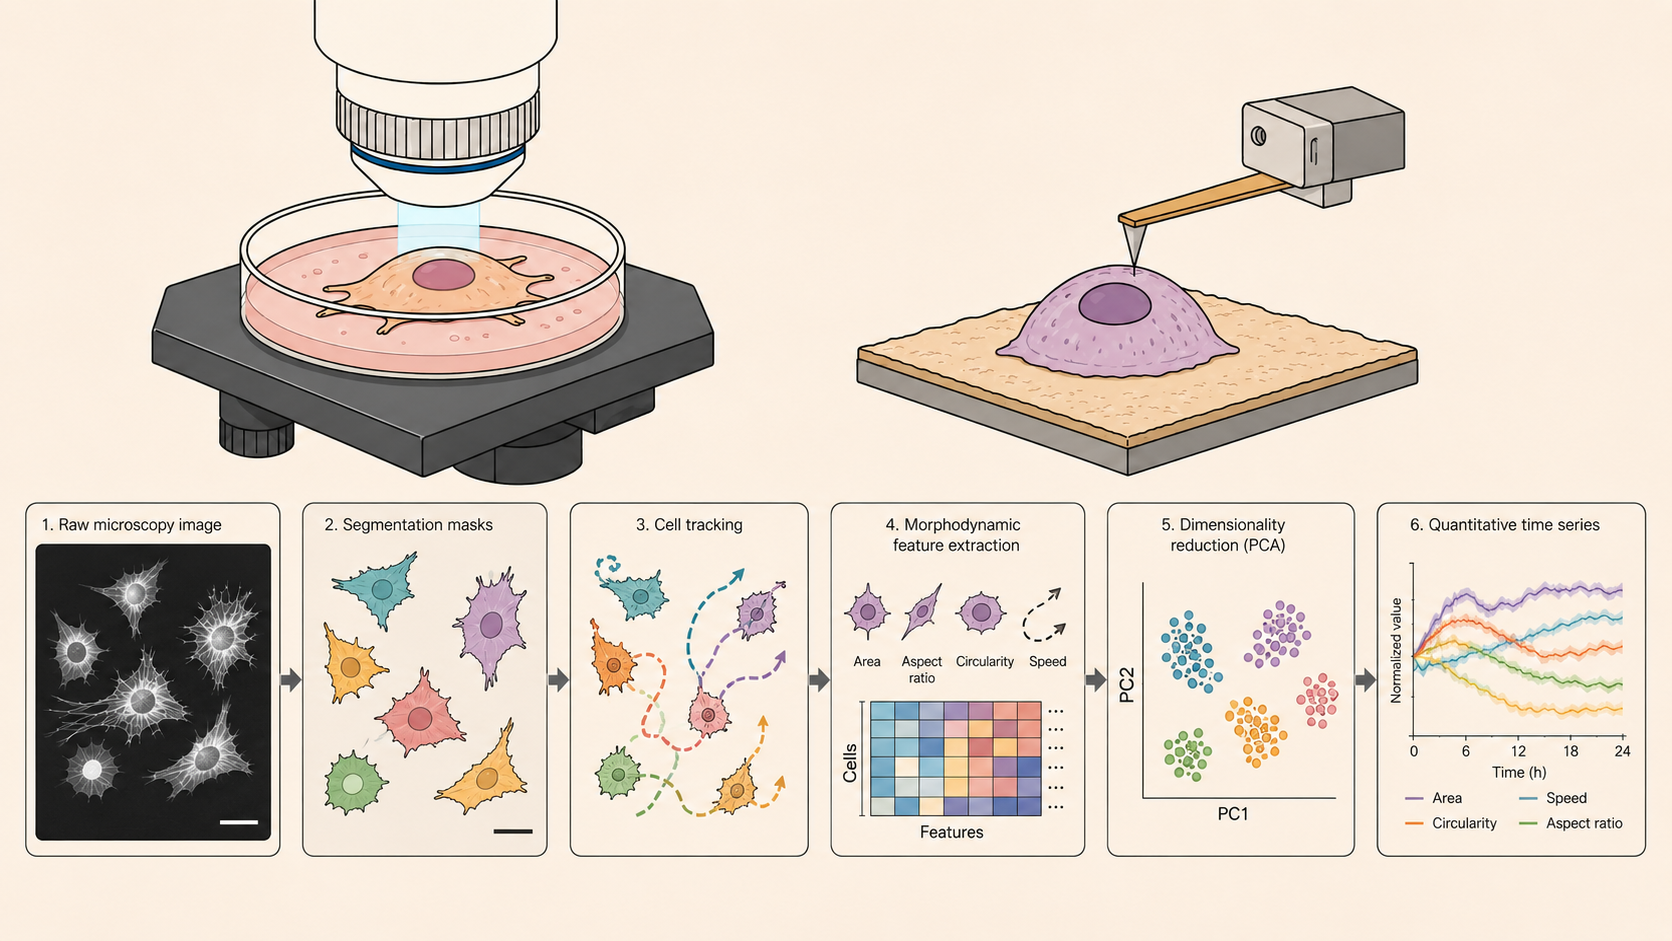
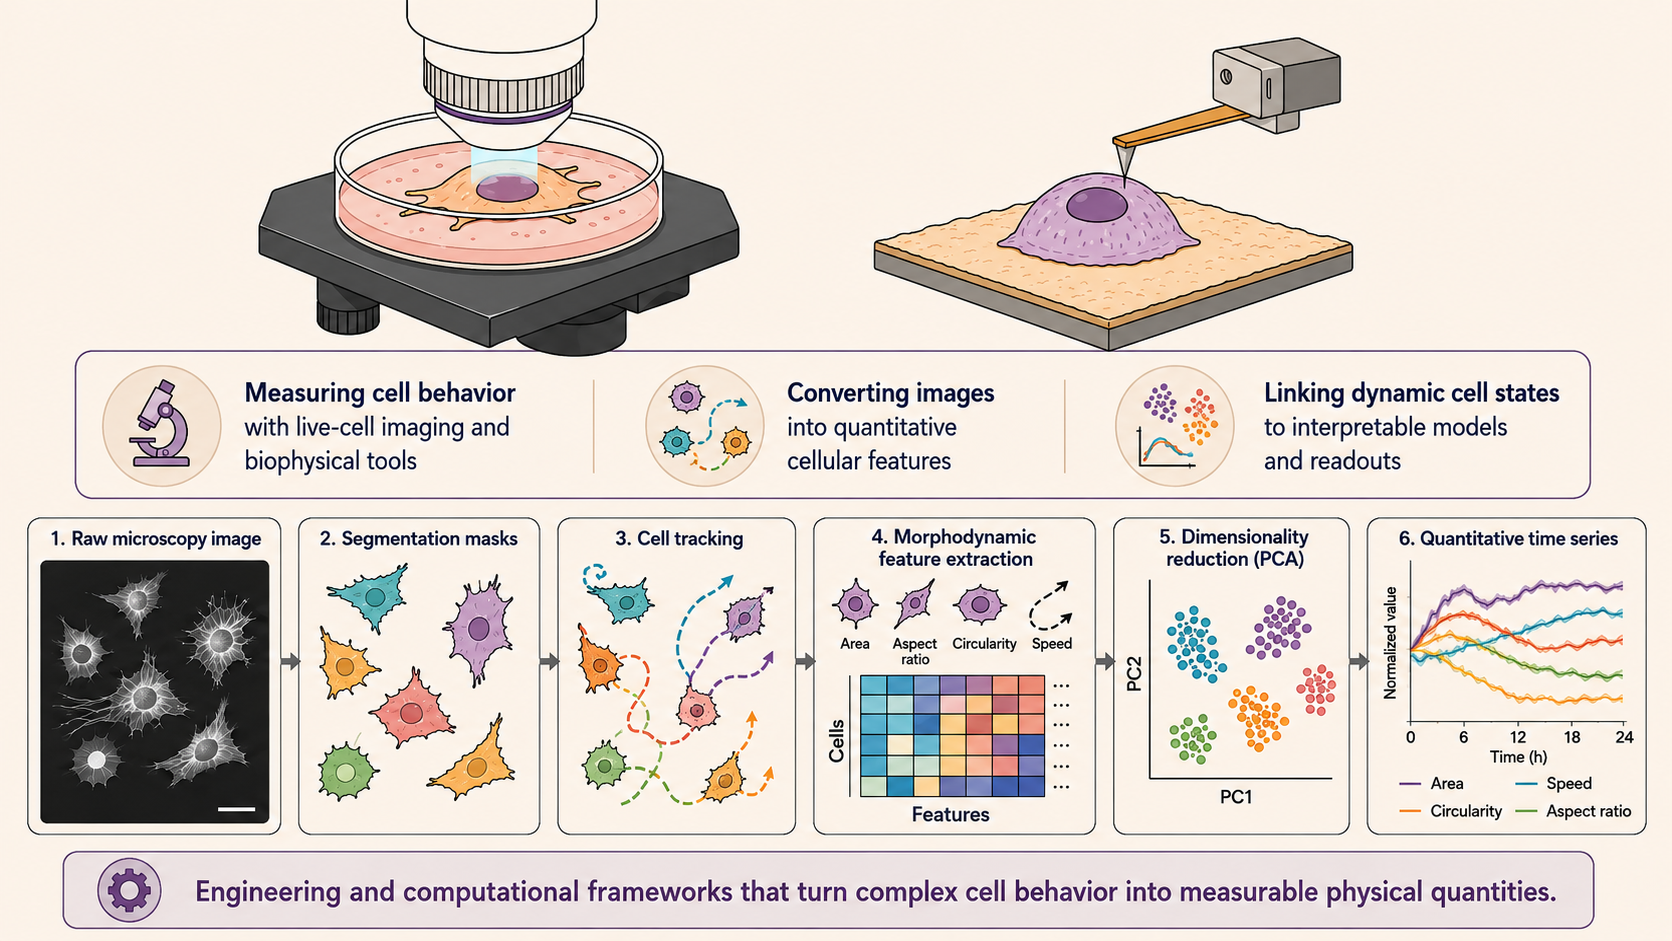
Refresh homepage research visuals
Update the two research pillar illustrations and link the lab name to the official Hawa Racine Thiam Lab website.

diff --git a/assets/styles.css b/assets/styles.css
@@ -53,6 +53,8 @@ h1 { font-family: Georgia, "Times New Roman", serif; font-weight: 500; font-size
 .intro-grid h2, .awards-band h2 { color: white; }
 h2 { font-family: Georgia, "Times New Roman", serif; font-size: clamp(38px, 5vw, 58px); line-height: 1.08; font-weight: 500; letter-spacing: -.035em; color: var(--navy-deep); margin-bottom: 24px; }
 .prose { font-size: 19px; color: #dbe4e9; }
+.prose a { color: #f0c36b; font-weight: 700; text-decoration-thickness: 1px; text-underline-offset: 3px; }
+.prose a:hover { color: white; }
 .prose p:last-child { margin-bottom: 0; }
 
 .section { padding-block: 100px; }

diff --git a/index.html b/index.html
@@ -59,7 +59,7 @@
           <h2>Connecting physical principles with cell biology</h2>
         </div>
         <div class="prose">
-          <p>I am a postdoctoral scholar in Hawa Racine Thiam's lab at Stanford University. My work integrates live-cell microscopy, experimental biophysics, quantitative image analysis, and physical modeling to uncover how cells generate, transmit, and respond to mechanical forces.</p>
+          <p>I am a postdoctoral scholar in <a href="https://hrthiamlab.stanford.edu/" target="_blank" rel="noopener noreferrer">Hawa Racine Thiam's lab</a> at Stanford University. My work integrates live-cell microscopy, experimental biophysics, quantitative image analysis, and physical modeling to uncover how cells generate, transmit, and respond to mechanical forces.</p>
           <p>Originally trained as a mechanical engineer, I approach cells and nuclei as dynamic mechanical systems. I view cellular morphology and motility, together with nuclear architecture and mechanics, as emergent biophysical properties that collectively provide a holistic readout of cell state. This systems-level perspective complements molecular and biochemical measurements.</p>
         </div>
       </div>